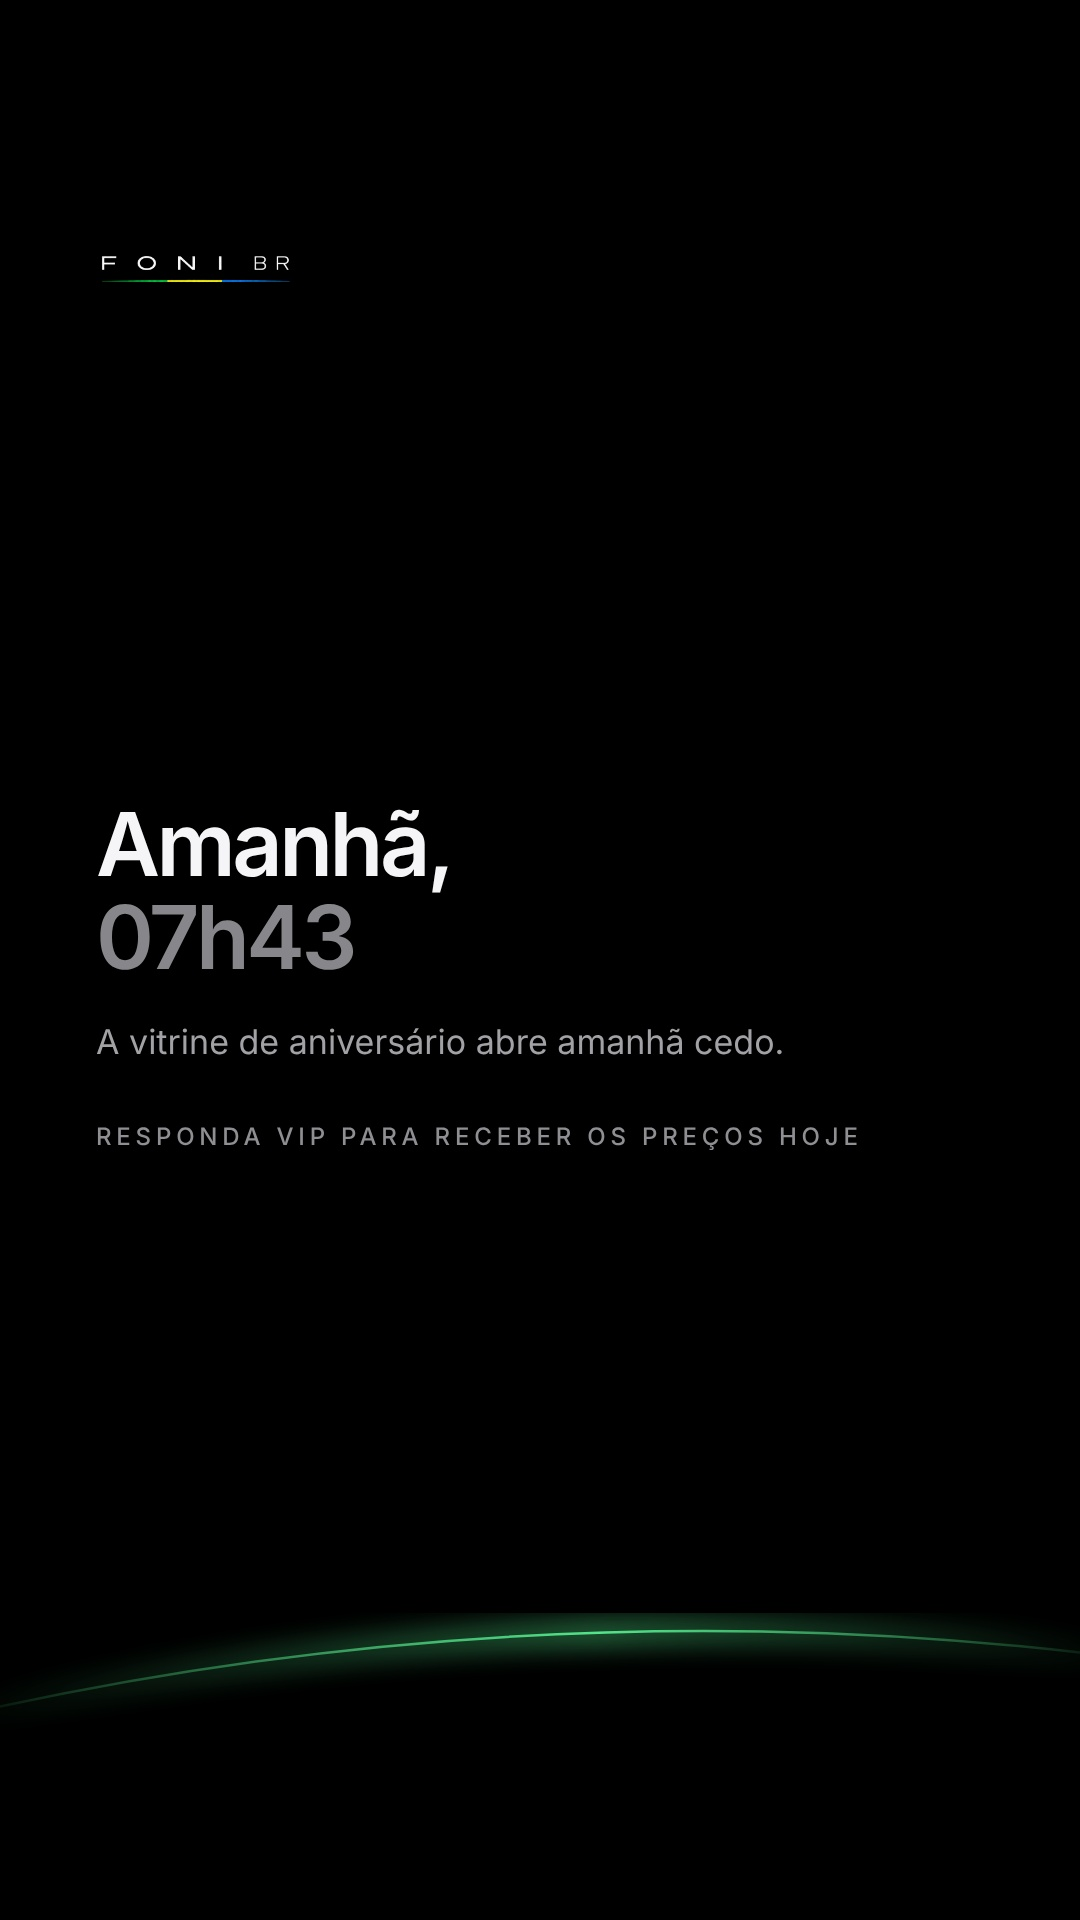
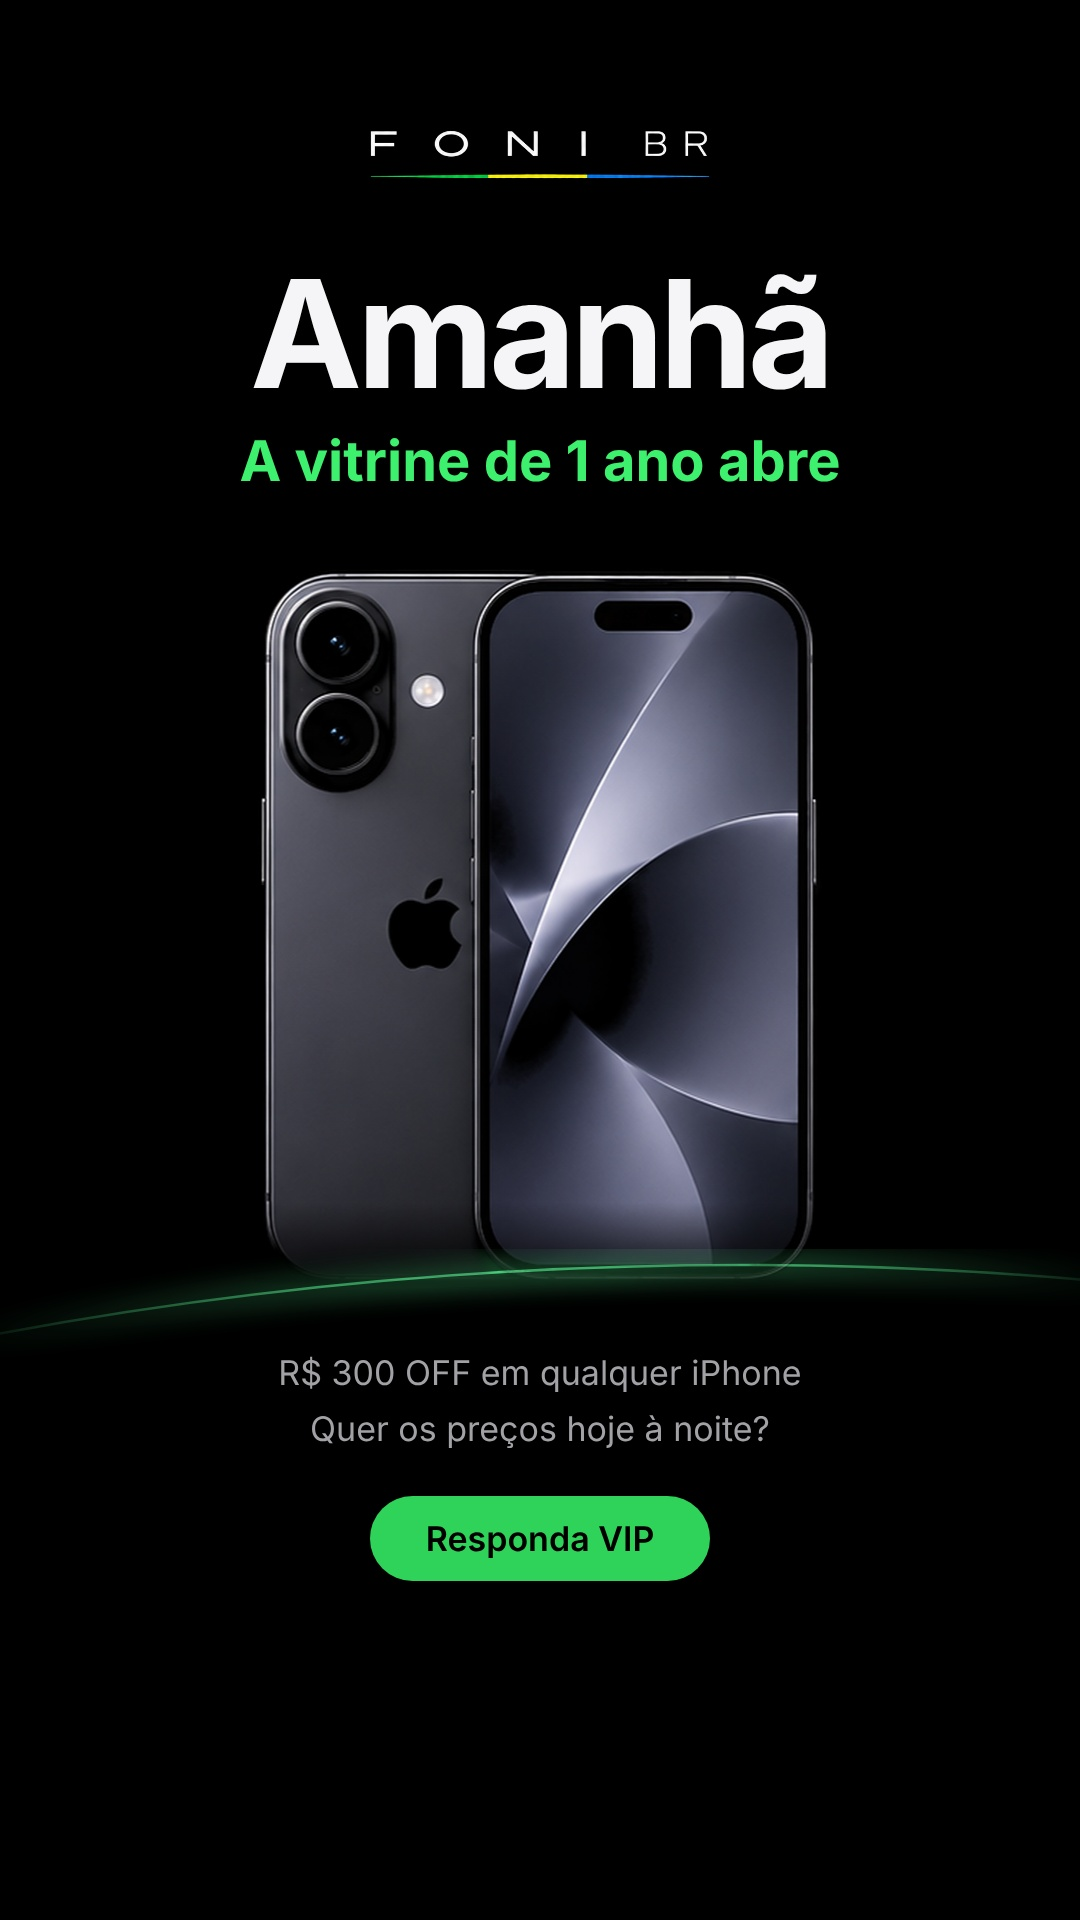
Story 26/11 18h (véspera) refeito no estilo dos anúncios; sem o horário 07h43
Claude-Session: https://claude.ai/code/session_019vjRdqEKRKmJkiD9USJGwJ

diff --git a/ferramentas/anuncio_produto/vespera.py b/ferramentas/anuncio_produto/vespera.py
@@ -1,0 +1,17 @@
+"""Story 26/11 18h (véspera) no estilo centralizado dos anúncios. Mesmo nome de arquivo da tarefa agendada."""
+import os, sys, asyncio
+sys.path.insert(0, os.path.dirname(os.path.abspath(__file__)))
+from vitrine_1ano import pagina, render, PROD, POSTS
+from gerar import preparar_foto, H
+
+uri = preparar_foto(os.path.join(PROD, "iphone-17/iphone17_preto.png"), 730)
+html = pagina('<style>.foto{position:absolute;top:560px;left:50%;transform:translateX(-50%);height:730px;'
+              '-webkit-mask-image:linear-gradient(#000 88%,transparent)}</style>'
+              '<div style="position:absolute;top:255px;left:0;right:0"><h1>Amanhã</h1>'
+              '<div class="eb" style="margin-top:14px;font-size:56px;font-weight:700;color:#3DF06E">A vitrine de 1 ano abre</div></div>'
+              f'<img class="foto" src="{uri}">'
+              '<div style="position:absolute;top:1350px;left:0;right:0">'
+              '<p class="sub" style="font-size:34px">R$ 300 OFF em qualquer iPhone</p>'
+              '<p class="sub" style="font-size:34px;margin-top:10px">Quer os preços hoje à noite?</p>'
+              '<div style="margin-top:44px"><span class="cta">Responda VIP</span></div></div>', linha_y=1285)
+asyncio.run(render(html, os.path.join(POSTS, "2026-11-26", "foni_story_18h_1ano_vespera.jpg"), H))
